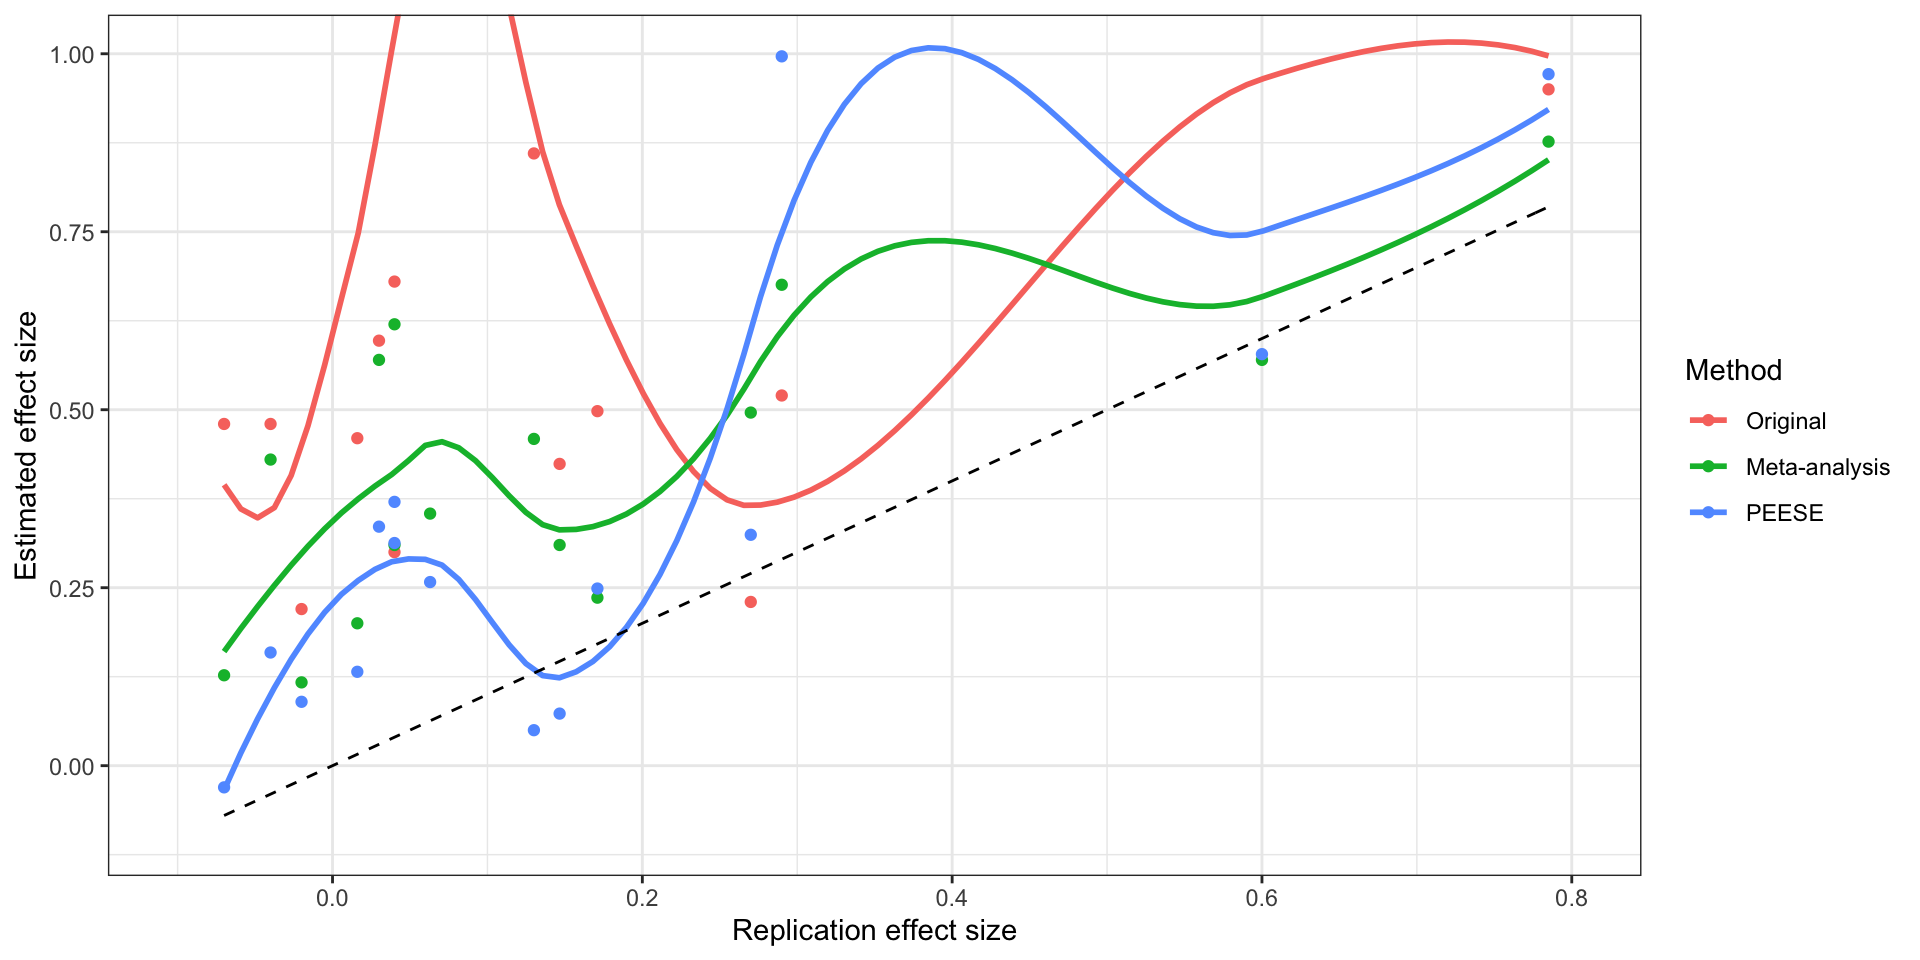
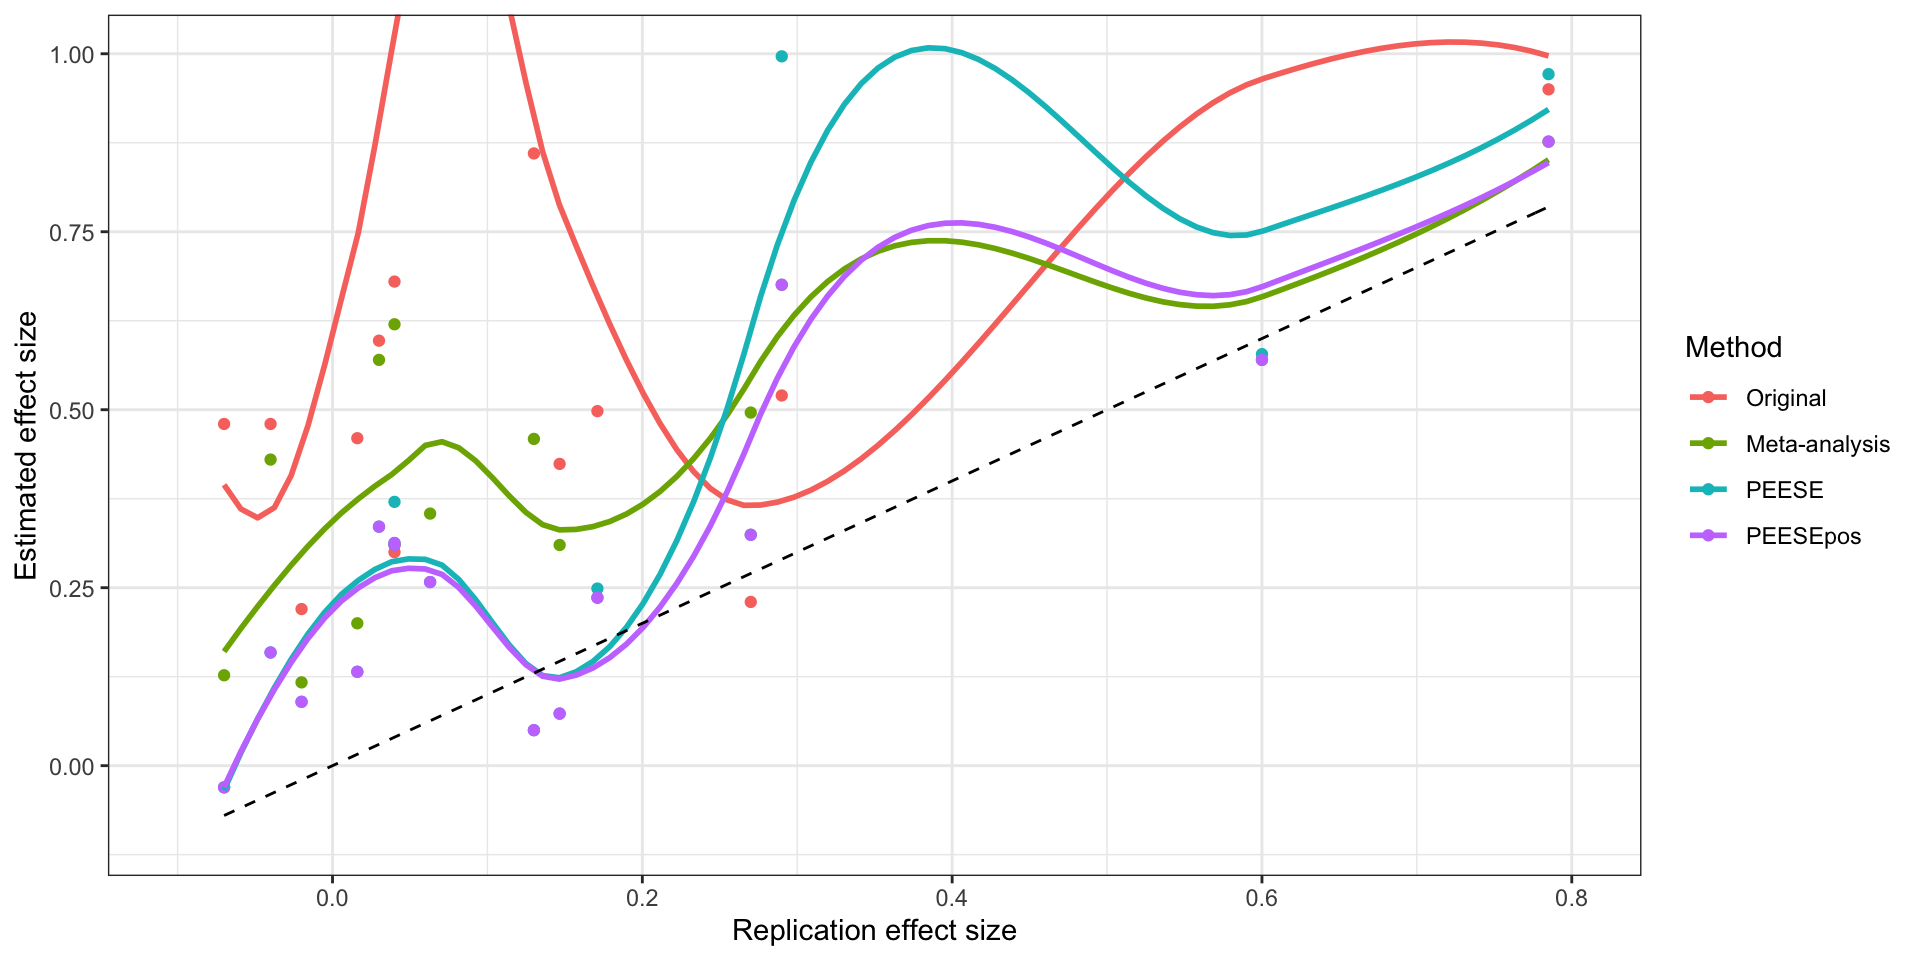
PEESEpos added

diff --git a/Estimation_Pub_bias.html b/Estimation_Pub_bias.html
@@ -16,7 +16,7 @@
 <script src="site_libs/header-attrs-2.11/header-attrs.js"></script>
 <script src="site_libs/jquery-3.6.0/jquery-3.6.0.min.js"></script>
 <meta name="viewport" content="width=device-width, initial-scale=1" />
-<link href="site_libs/bootstrap-3.3.5/css/flatly.min.css" rel="stylesheet" />
+<link href="site_libs/bootstrap-3.3.5/css/bootstrap.min.css" rel="stylesheet" />
 <script src="site_libs/bootstrap-3.3.5/js/bootstrap.min.js"></script>
 <script src="site_libs/bootstrap-3.3.5/shim/html5shiv.min.js"></script>
 <script src="site_libs/bootstrap-3.3.5/shim/respond.min.js"></script>
@@ -409,30 +409,60 @@ Funnel plot of the studies in Kvarven et al with PEESE
 </p>
 </div>
 <p>The plot shows the how the PEESE estimator works: it fits a quadratic curve through the data and its bias-corrected estimate is the intercept of this curve. For the Graham dataset, PEESE interprets wrongly the increase in effect size with precision as signaling that publication bias was coming from above (censoring of imprecise large results) and pushes the estimate above the meta-analytic one, further away from the truth. For the Crichter and Hauser datasets, PEESE makes the same mistake but the consequences are much less severe, and PEESE ends up very close to the meta-analytic estimate. There is one case in which PEESE works badly For all the other datasets, PEESE is closer to the truth than the meta-analytic estimate. The PEESE correction is sometimes spectacular, like in the Husnu, Monin, Oppenheimer and Schwarz datasets, where PEESE is indistiguishable from the true effect.</p>
+<p>Most of the action on the graph occurs for low values of the replicated effect size. There, the original estimates are much more biased than the meta-analytic ones, which are themselves more biased than PEESE. PEESE does badly in the intermediate range of replication effect sizes because of the overestimated effect in the Graham study. A version of the estimator that would not implement any correction when the correlation between effect size and its standard error is negative would avoid similar mistakes and would work better than PEESE.</p>
+</div>
+<div id="peese-without-the-negative-correlations" class="section level1">
+<h1>PEESE without the negative correlations</h1>
+<p>What if instead of computing the PEESE estimate when the correlation between effect size and standard error is negative, we were simply keeping the initial meta-analytic estimate? This is exceedingly simple to do. We just replace the PEESE estimate by the original meta-analytic estimate when the coefficient on the variance of the treatment effect is negative. Let’s just do it.</p>
+<pre class="r"><code># computing the PEESE positive estimates
+Aggregate &lt;- Aggregate %&gt;%
+              mutate(PEESEpos_estimate = if_else(PEESE_var_estimate&gt;0,PEESE_estimate,meta_s))</code></pre>
+</div>
+<div id="fat-pet-peese" class="section level1">
+<h1>FAT-PET-PEESE</h1>
+</div>
+<div id="fat-pet-peese-without-the-negative-correlations" class="section level1">
+<h1>FAT-PET-PEESE without the negative correlations</h1>
+</div>
+<div id="p-curving" class="section level1">
+<h1>p-curving</h1>
+</div>
+<div id="selection-models" class="section level1">
+<h1>Selection models</h1>
+</div>
+<div id="regularizing-estimates-by-their-mean-bias" class="section level1">
+<h1>Regularizing estimates by their mean bias</h1>
+</div>
+<div id="performance-of-the-estimators" class="section level1">
+<h1>Performance of the estimators</h1>
 <p>One way to compute the performance of the PEESE estimator (or of any estimator) is to report some statistics for its distance to the truth (taken here to be the replication estimate). Let us compute several such estimates: the mean bias, the mean absolute deviation and the root mean squared error. We will do that for the PEESE estimator and for the meta-analytic estimator, in order to measure the improvement in estimation brought about by the PEESE estimator over the meta-analytic estimate.</p>
 <pre class="r"><code># computing the bias, mean absolute deviation and root mean square error of PEESE and the meta-analysis
-PEESE_bias &lt;- Aggregate %&gt;%
+Estim_bias &lt;- Aggregate %&gt;%
                 mutate(
                   PEESE_bias = PEESE_estimate-replication_s,
+                  PEESEpos_bias = PEESEpos_estimate-replication_s,
                   Meta_bias = meta_s-replication_s,
                   Original_bias = effecto-replication_s
                   ) %&gt;%
                 summarize(
                   PEESE_MeanBias = mean(PEESE_bias),
+                  PEESEpos_MeanBias = mean(PEESEpos_bias),
                   Meta_MeanBias = mean(Meta_bias),
                   Original_MeanBias = mean(Original_bias),
                   PEESE_MAD = mean(abs(PEESE_bias)),
+                  PEESEpos_MAD = mean(abs(PEESEpos_bias)),
                   Meta_MAD = mean(abs(Meta_bias)),
                   Original_MAD = mean(abs(Original_bias)),
                   PEESE_RMSE = sqrt(mean(PEESE_bias^2)),
+                  PEESEpos_RMSE = sqrt(mean(PEESEpos_bias^2)),
                   Meta_RMSE = sqrt(mean(Meta_bias^2)),
                   Original_RMSE = sqrt(mean(Original_bias^2))
                 )</code></pre>
 <p>We are going to send these estimates to a table on SKY and we will use them to generate a graph of the performances of various methods for correcting for publication bias at the top of this page.</p>
 <pre class="r"><code># putting the estimates in long format
-Method_bias &lt;- PEESE_bias %&gt;%
+Method_bias &lt;- Estim_bias %&gt;%
                 pivot_longer(
-                  cols=1:9,
+                  cols=1:ncol(Estim_bias),
                   names_to=c(&quot;Method&quot;,&quot;Value&quot;),
                   names_sep= &quot;_&quot;,
                   values_to = &quot;value&quot;
@@ -451,13 +481,12 @@ SKY &lt;- dbConnect(MySQL(), dbname=&quot;SKY&quot;,
 dbWriteTable(SKY,&quot;Correct_Pub_Bias&quot;,Method_bias,overwrite=TRUE)
 # disconnecting
 dbDisconnect(SKY)</code></pre>
-<p><strong>We should add the performances of the original estimate as well</strong></p>
 <p>Finally, a very useful way to visualize our results is to plot the original, meta-analytic and PEESE estimates against the truth.</p>
 <pre class="r"><code># preparing dataset for the plot: pivoting longer
 plotXYdata &lt;- Aggregate %&gt;%
-                select(Original,replication_s,effecto,meta_s,PEESE_estimate) %&gt;%
+                select(Original,replication_s,effecto,meta_s,PEESE_estimate,PEESEpos_estimate) %&gt;%
                 pivot_longer(
-                  cols=effecto:PEESE_estimate,
+                  cols=effecto:PEESEpos_estimate,
                   names_to=&quot;Method&quot;,
                   values_to=&quot;Estimate&quot; 
                 ) %&gt;%
@@ -466,8 +495,9 @@ plotXYdata &lt;- Aggregate %&gt;%
                 ) %&gt;%
                 mutate(
                   Method = if_else(Method==&quot;effecto&quot;,&quot;Original&quot;,
-                                   if_else(Method==&quot;meta_s&quot;,&quot;Meta-analysis&quot;,&quot;PEESE&quot;)),
-                  Method=factor(Method,levels=c(&quot;Original&quot;,&quot;Meta-analysis&quot;,&quot;PEESE&quot;))
+                                   if_else(Method==&quot;meta_s&quot;,&quot;Meta-analysis&quot;,
+                                           if_else(Method==&quot;PEESE_estimate&quot;,&quot;PEESE&quot;,&quot;PEESEpos&quot;))),
+                  Method=factor(Method,levels=c(&quot;Original&quot;,&quot;Meta-analysis&quot;,&quot;PEESE&quot;,&quot;PEESEpos&quot;))
                 )
 
 # plot
@@ -485,7 +515,6 @@ ggplot(plotXYdata,aes(x=Replication,y=Estimate,color=Method)) +
 Original, meta-analytic and PEESE estimates as a function of the replication effect size
 </p>
 </div>
-<p>Most of the action on the graph occurs for low values of the replicated effect size. There, the original estimates are much more biased than the meta-analytic ones, which are themselves more biased than PEESE. PEESE does badly in the intermediate range of replication effect sizes because of the overestimated effect in the Graham study. A version of the estimator that would not implement any correction when the correlation between effect size and its standard error is negative would avoid similar mistakes and would work better than PEESE.</p>
 </div>
 
 

diff --git a/index.html b/index.html
@@ -286,7 +286,7 @@ $(document).ready(function () {
 Performance of various estimators of an effect compared to pre-registered replications
 </p>
 </div>
-<p>The original estimates have large baises. Meta-analysis divides the mean bias by two. The PEESE method brings the bias further down by 40%. The other criteria tell a similar story. This data makes the PEESE estimator the best estimator so far to estimate true treatment effects using the published record.</p>
+<p>The original estimates have large baises. Meta-analysis divides the mean bias by two. The PEESE and PEESEpos methods brings the bias further down by 40%. The other criteria tell a similar story. This data makes the PEESE and PEESEpos estimators the best estimators so far to estimate true treatment effects using the published record.</p>
 <p>If you have comments on this project, please post them on the corresponding <a href="https://github.com/chabefer/SKY_Correct_Pub_Bias/discussions">GitHub comment page</a>.</p>
 <p>If you want to alter this project, please do so on its <a href="https://github.com/chabefer/SKY_Correct_Pub_Bias">GitHub repo</a>.</p>
 
